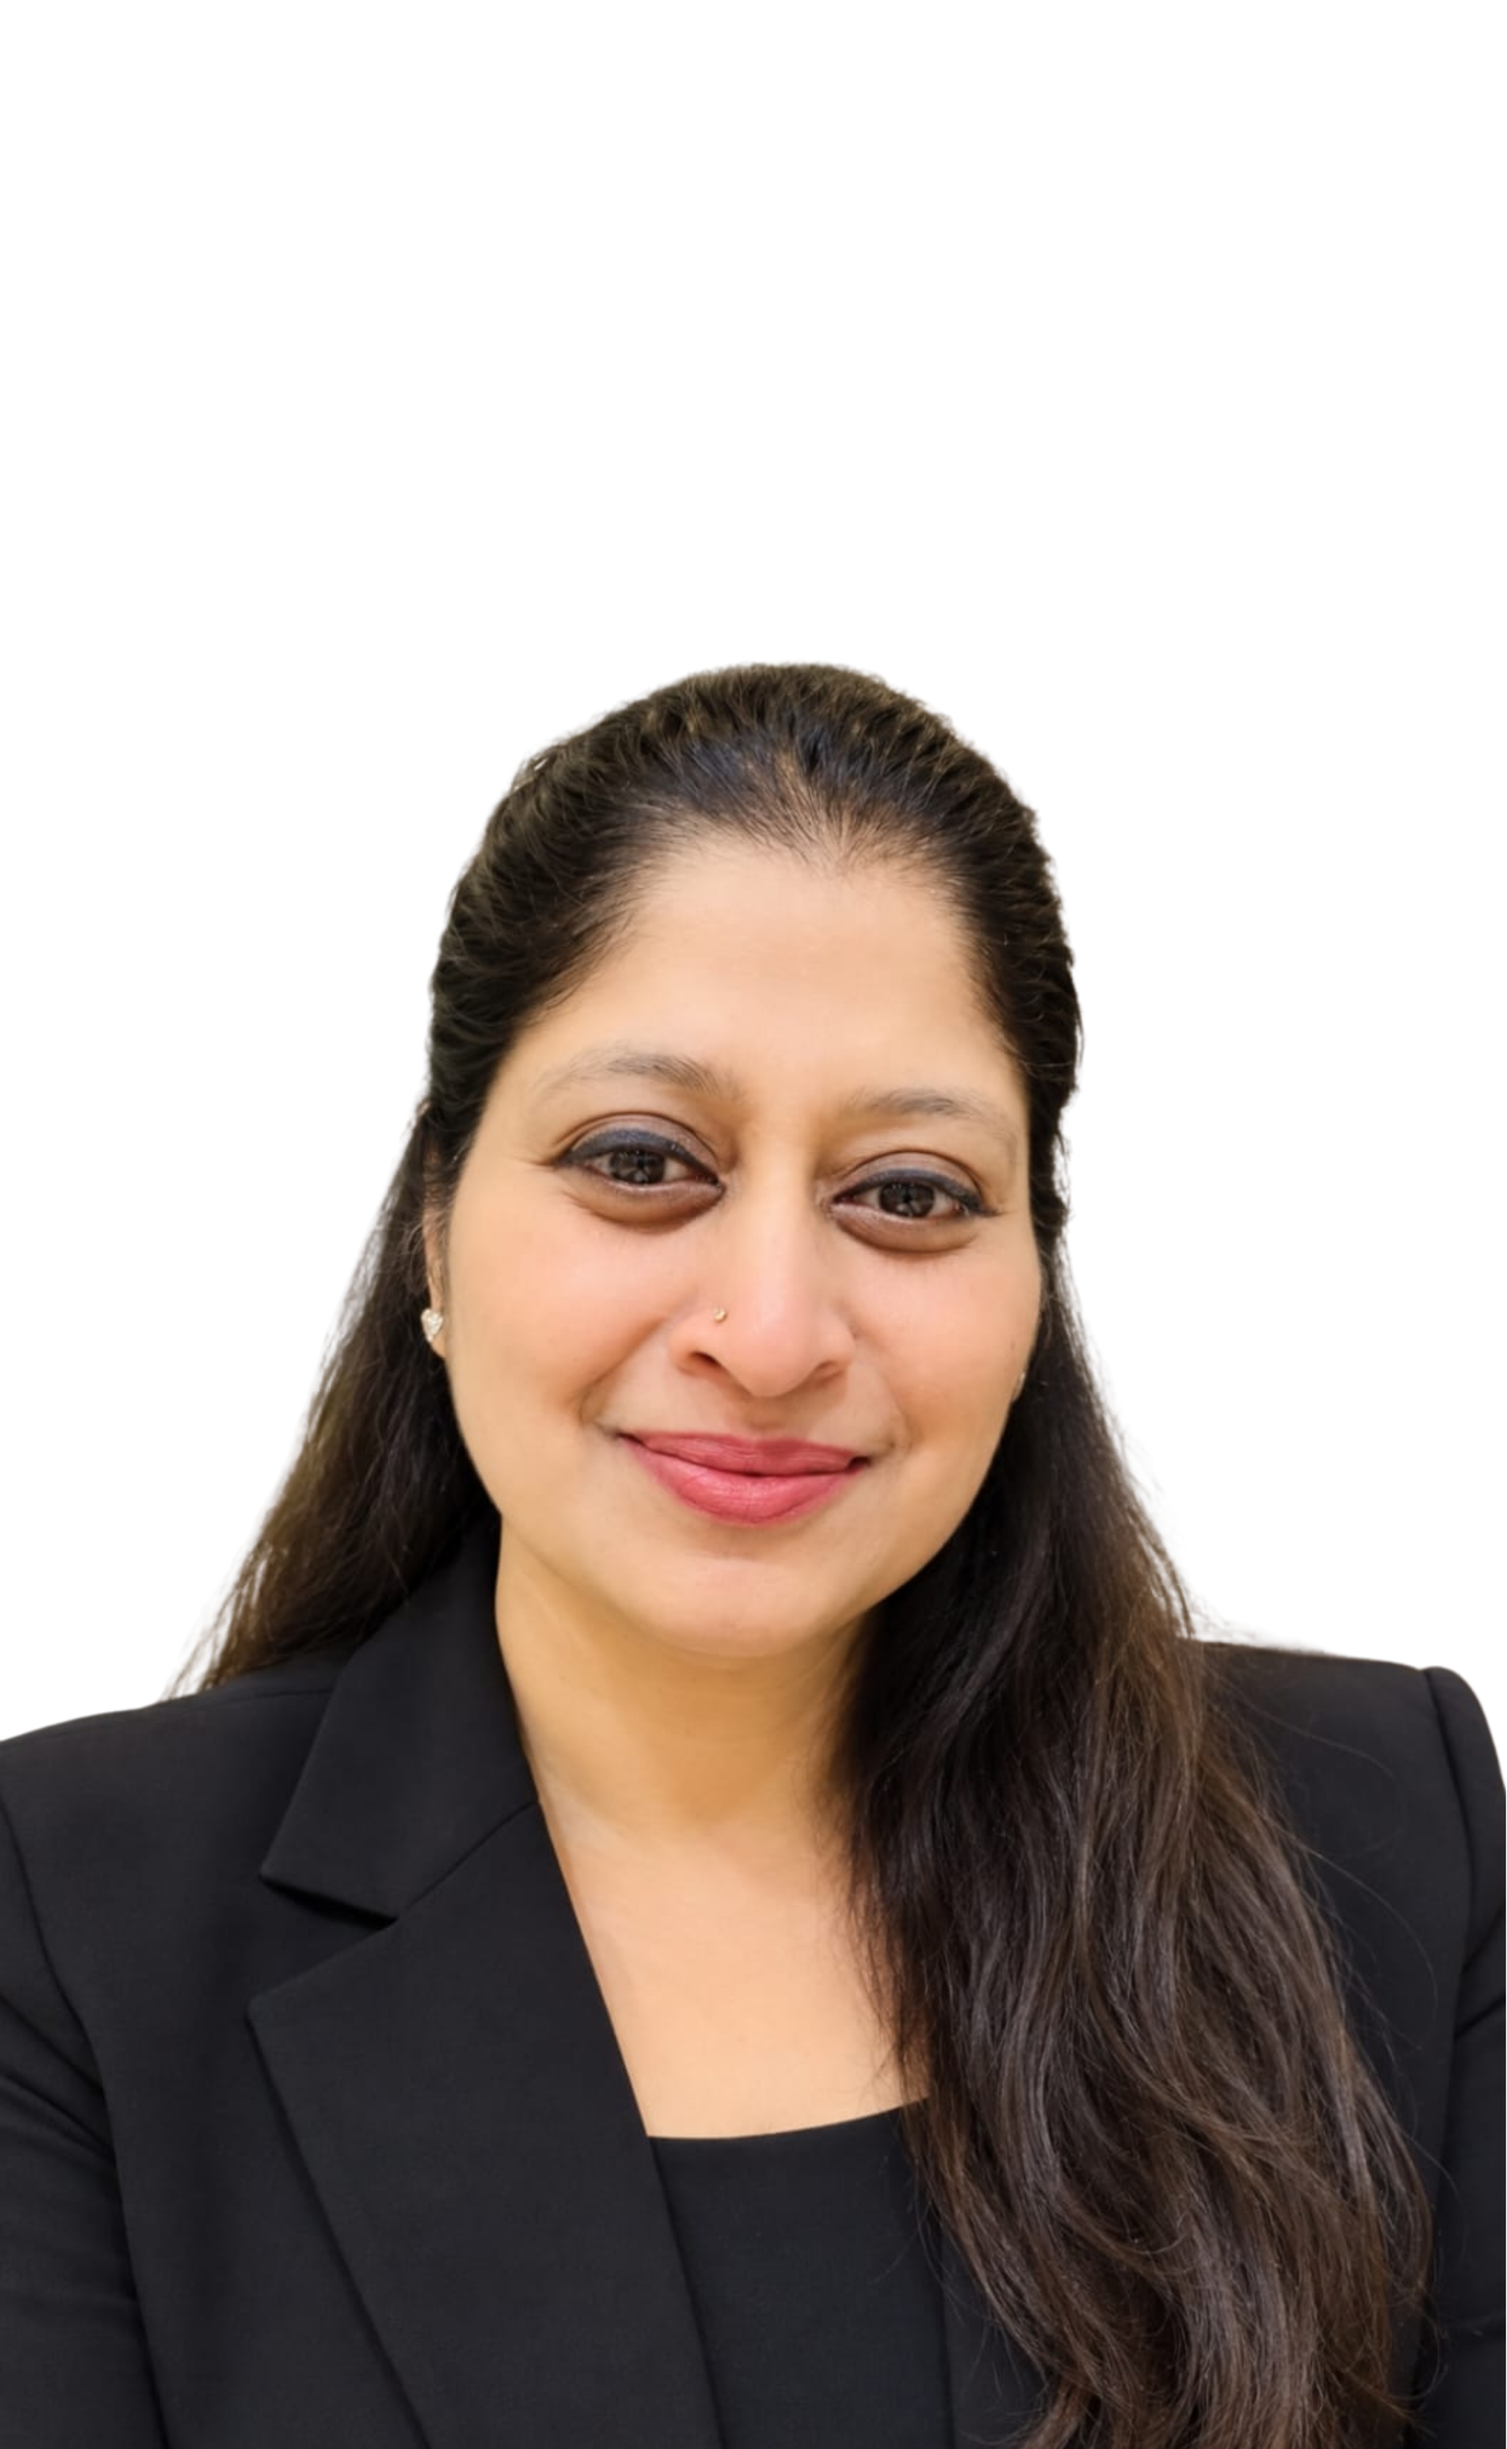
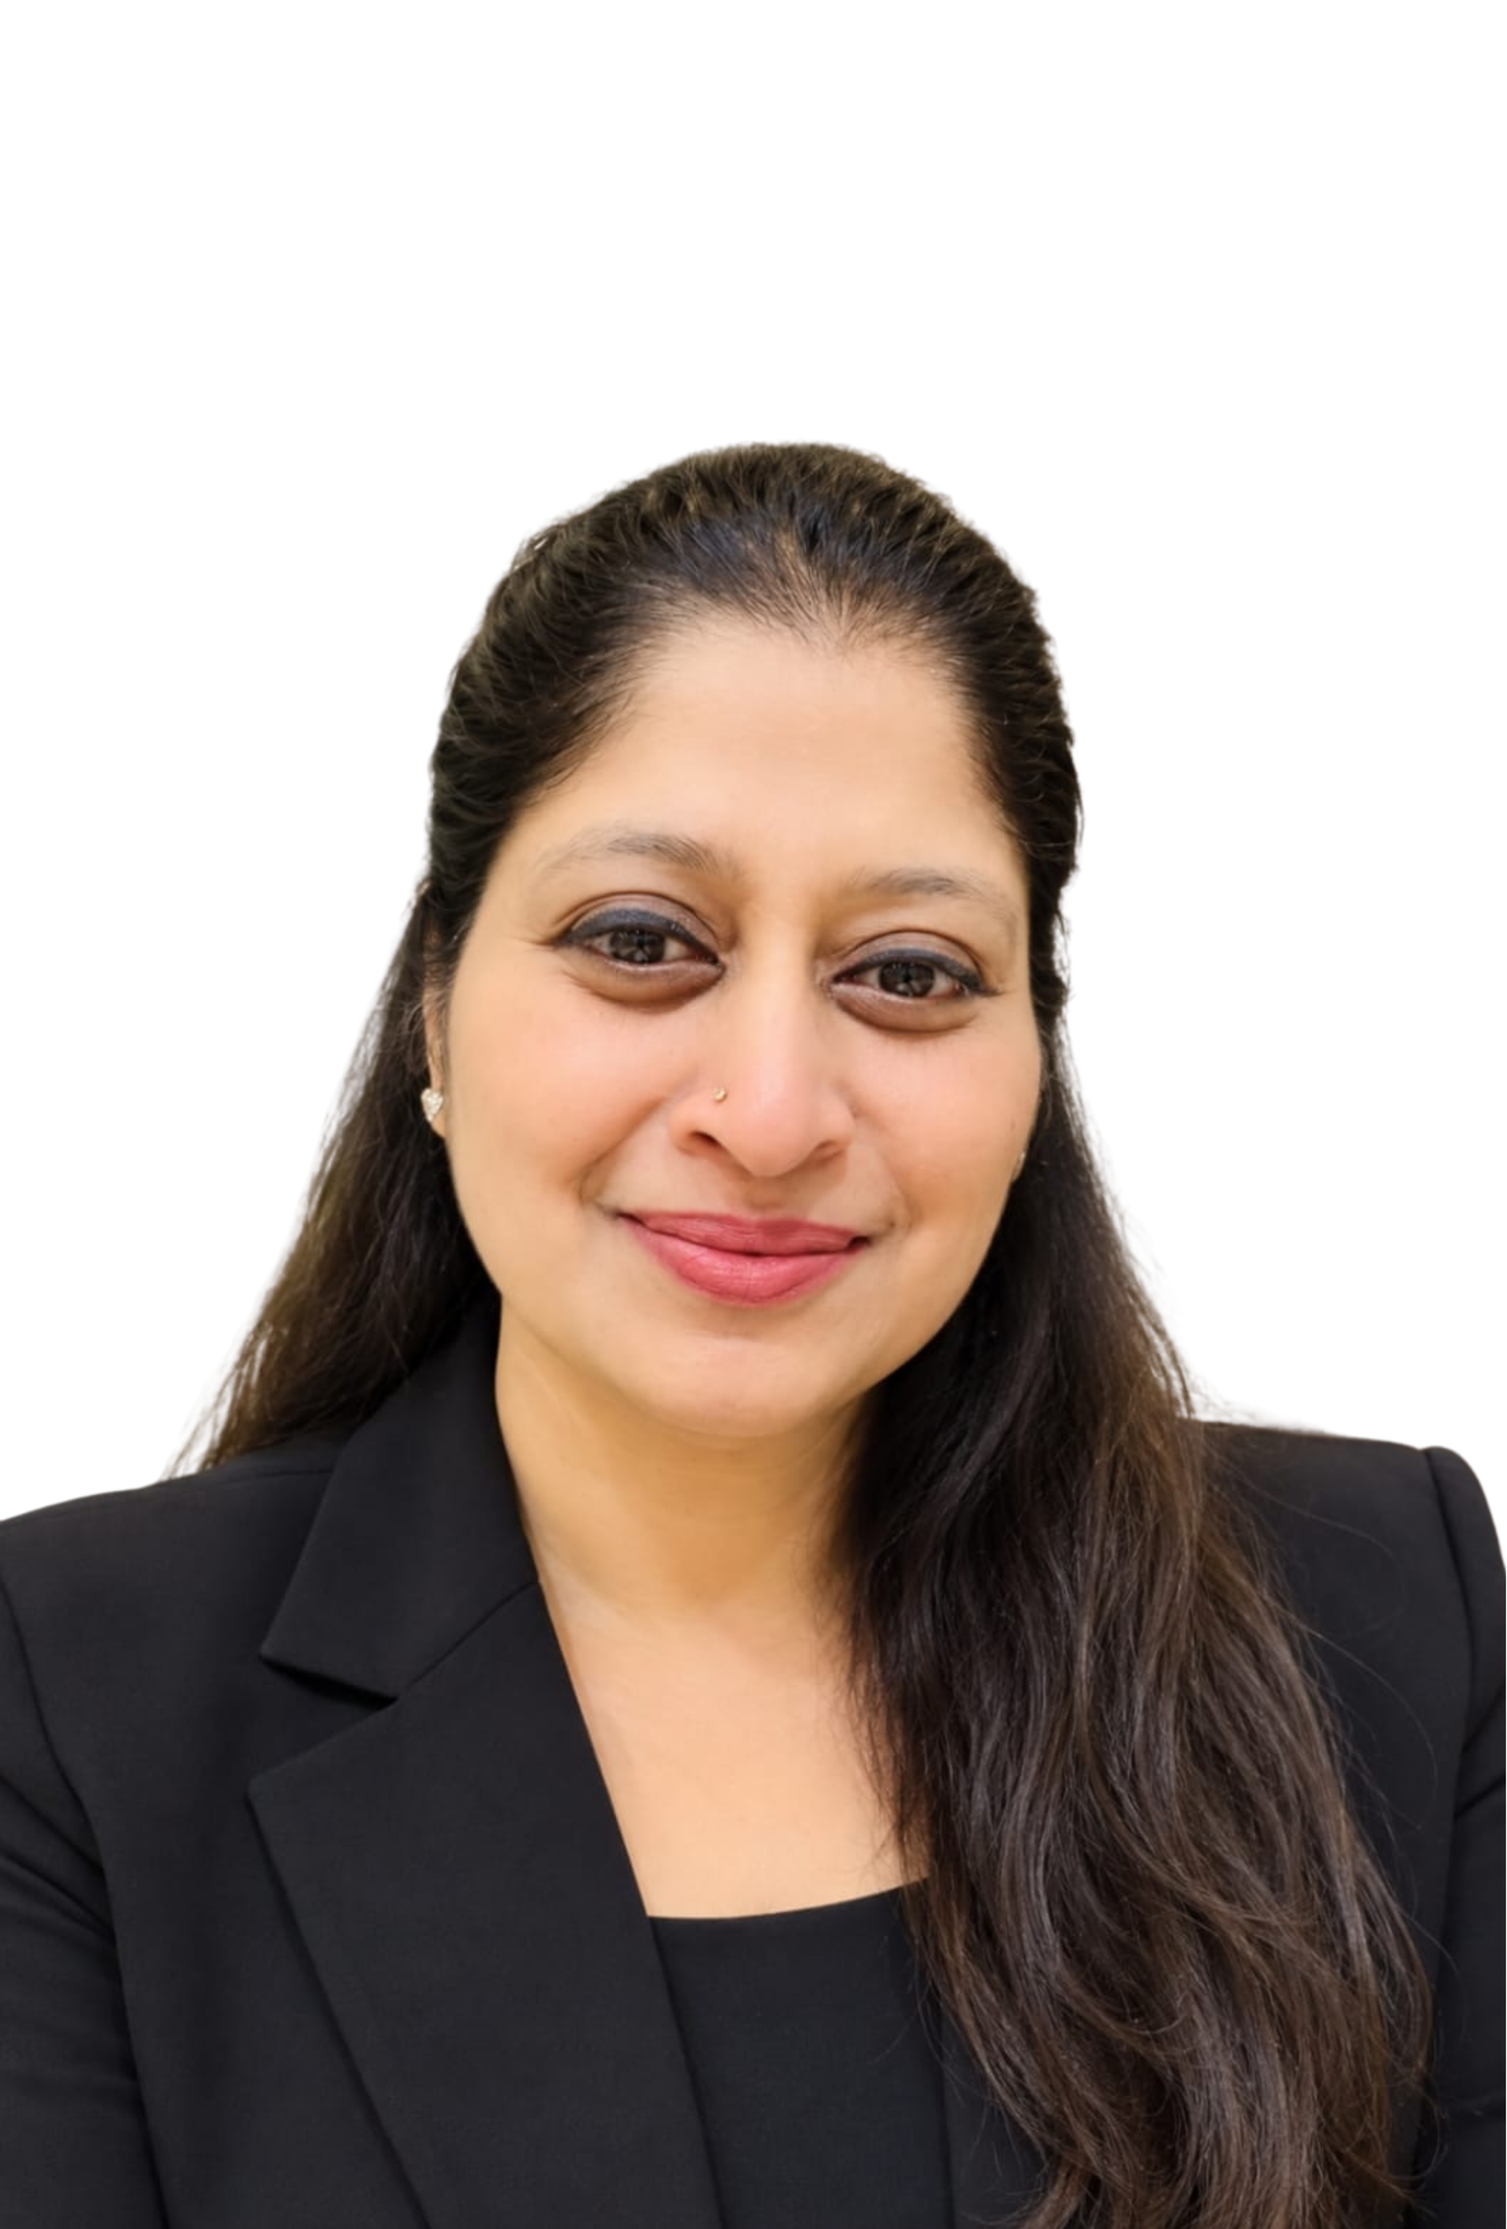
feat: add advisory board data and member image

Changed region(s): [[0.0, 0.1875, 1.0, 0.9688], [0.1865, 0.75, 0.2487, 0.8125]]

diff --git a/frontend/src/data/advisory-board.ts b/frontend/src/data/advisory-board.ts
@@ -125,11 +125,11 @@ export const globalRepresentatives: AdvisoryMember[] = [
     image: "/images/board_of_directers/shiv1.jpg",
   },
   {
-    name: "Geeta Raza",
-    title: "Deputy Director – India Operations",
-    role: "Deputy Director – India Operations at International Hospitality Ventures (IHV).",
+    name: "Shabnam Raza (Geeta)",
+    title: "Deputy Director – India Representative",
+    role: "Deputy Director – India Representative at IHV Pvt. Ltd., Sri Lanka.",
     description:
-      "Leads and supports the company’s business development and strategic tourism partnerships in India, strengthening IHV’s presence and developing B2B relationships with travel trade partners.",
+      "An experienced business-networking professional with strong associations across Indian business forums, industry organizations, and professional networks. She specializes in building meaningful partnerships and creating opportunities for cross-border collaboration. In her role, she leads IHV’s business development and strategic tourism initiatives in India, strengthening the company's regional presence and fostering vital B2B relationships with travel trade partners.",
     linkedin: "https://www.linkedin.com/in/geeta-raza-912003b6/",
     image: "/images/board_of_directers/geet1.png",
   }
